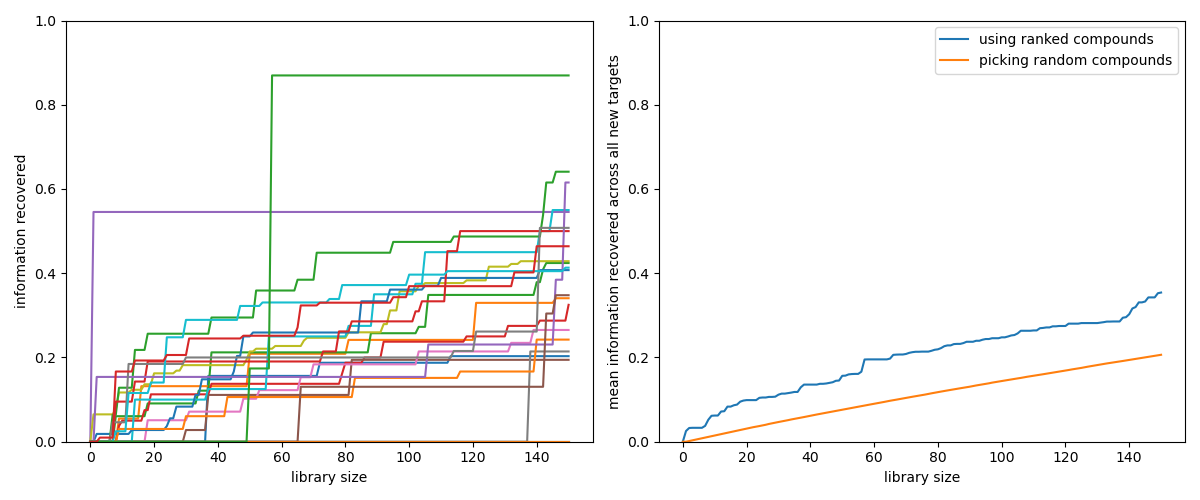
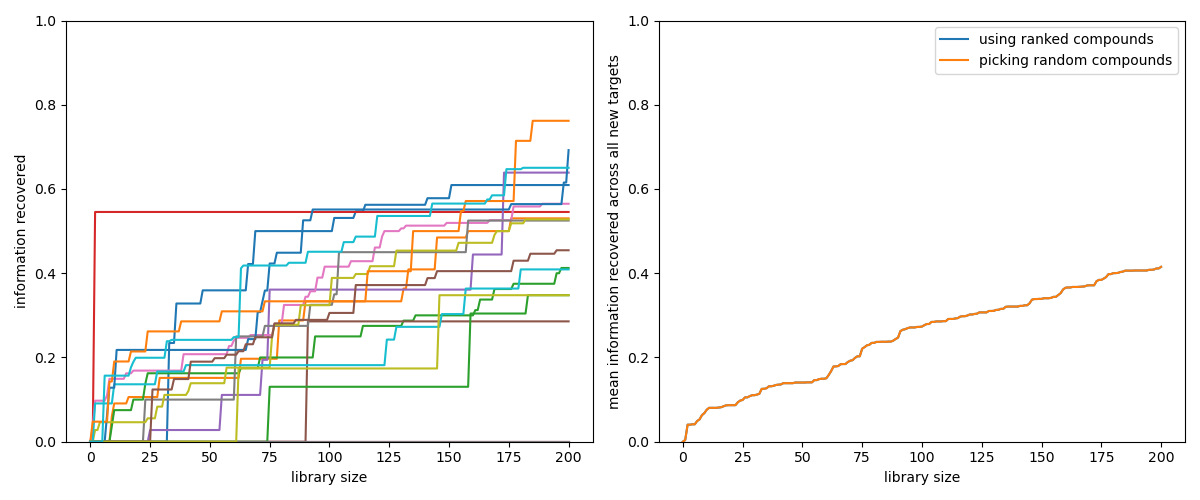
using larger set of frequently tested compounds

diff --git a/scripts/test_rankings.py b/scripts/test_rankings.py
@@ -1,6 +1,6 @@
 import os
 import json
-from rank_compounds import get_next_best_compound, get_all_smiles, rank
+from rank_compounds import get_next_best_compound, get_all_smiles, rank, get_DSiP_smiles
 import matplotlib.pyplot as plt
 import random
 from rdkit import Chem
@@ -40,14 +40,15 @@ def get_fraction(comps, smiles_bits, target, total_information):
     return target_fraction
 
 
-def ignore_targets(smiles_bits, target_tests, remove_less_than):
+def ignore_targets(smiles_bits, frequent_comps, target_screens, remove_less_than):
+
+    # returns a dictionary of IFP bits for each compound in each target that have more than a threshold amount of frequent compounds tested
 
     smol = []
     for t in smiles_bits:
-
-        if t in target_tests and target_tests[t] < remove_less_than:
+        if t in target_screens and len([i for i in target_screens[t] if i in frequent_comps]) < remove_less_than:
             smol.append(t)
-        elif t not in target_tests:
+        elif t not in target_screens:
             smol.append(t)
 
     for t in smol:
@@ -58,14 +59,20 @@ def ignore_targets(smiles_bits, target_tests, remove_less_than):
 
 def get_total_information(smiles_bits, target):
 
+    # returns number of unique IFP bits for target
+
     total_information = []
     for c in smiles_bits[target]:
         total_information += smiles_bits[target][c]
+
     total_information = len(set(total_information))
+
     return total_information
 
 
 def multiple_random_runs(all_smiles, smiles_bits, test_target, total_information, lib_size=150, num_runs=1000):
+
+    # generates results for screens on given target using random libraries
 
     random_fractions_target = [0] * lib_size
     for i in range(num_runs):
@@ -82,6 +89,8 @@ def multiple_random_runs(all_smiles, smiles_bits, test_target, total_information
 
 def plot_target_fraction(target, fraction):
 
+    # plots information recovery for each target
+
     plt.plot(range(len(fraction)), fraction, label=target)
     plt.xlabel('library size')
     plt.ylabel('information recovered')
@@ -91,6 +100,8 @@ def plot_target_fraction(target, fraction):
 
 
 def target_improvement(target_fraction, random_fractions_target):
+
+    # calculates improvement in information recovered between ranked library and random library (mean of many runs)
 
     assert len(target_fraction) == len(random_fractions_target)
 
@@ -104,6 +115,8 @@ def target_improvement(target_fraction, random_fractions_target):
 
 def mean_across_targets(fraction):
 
+    # calculates the mean information recovered across all targets for a particular library type
+
     mean_fractions = []
     fraction_lengths = [len(i) for i in fractions]
     for i in range(min(fraction_lengths)):
@@ -112,13 +125,16 @@ def mean_across_targets(fraction):
     return mean_fractions
 
 
-smiles_bits = json.load(open('data/datafiles/smiles_bits.json', 'r'))
-frequent_comps = json.load(open('data/datafiles/frequently_tested_compounds.json', 'r'))
-target_tests = json.load(open('data/datafiles/target_test_numbers.json', 'r'))
-lib_size = 150
 
-smiles_bits = ignore_targets(smiles_bits, target_tests, 250)
+smiles_bits = json.load(open('data/datafiles/smiles_bits.json', 'r')) # load in dictionary of targets with IFP bits attributed to each compound
+frequent_comps = json.load(open('data/datafiles/frequently_tested_compounds.json', 'r')) # load in list of compounds that have been tested on more than 15 of our targets
+# target_tests = json.load(open('data/datafiles/target_test_numbers.json', 'r')) # load in dictionary showing how many compounds were tested on which targets
+lib_size = 200 # library size we are using to compare ranked and random libraries
+target_screens = json.load(open('data/datafiles/target_full_screens.json', 'r')) # load in dictionary showing which compounds were tested on which targets
 
+DSiP_smiles = get_DSiP_smiles()
+smiles_bits = ignore_targets(smiles_bits, frequent_comps, target_screens, 500) # only take targets that have had more than 250 of our frequent compounds tested
+print(len(set(frequent_comps)))
 plt.figure(figsize=(12, 5))
 plt.subplot(121)
 
@@ -128,10 +144,18 @@ comps_lists = []
 improvement = []
 
 for test_target in smiles_bits:
+    # print(test_target)
+    # print(target_tests[test_target])
+    # print('frequently tested compounds', len(set([i for i in target_screens[test_target] if i in frequent_comps])))
+    # print('total DSiP compounds tested', len(set(target_screens[test_target])))
+
+    # if len(set([i for i in target_screens[test_target] if i in frequent_comps])) > 500:
+
 
     # get all results except target being tested
     smiles_bits_reduced = get_reduced_smiles_bits(smiles_bits, test_target)
-    all_smiles = [i for i in get_all_smiles(smiles_bits_reduced) if i in frequent_comps]
+    all_smiles = [i for i in get_all_smiles(smiles_bits_reduced) if Chem.MolToSmiles(Chem.MolFromSmiles(i)) in frequent_comps]
+    print('previously bound compounds', len(all_smiles))
 
     # rank compounds based on past results
     comps, x = rank(smiles_bits_reduced, all_smiles, lib_size)
@@ -146,11 +170,12 @@ for test_target in smiles_bits:
 
     # add in dummy compounds for those we have never seen bind and shuffle new (larger) library
     add_for_DSiP = len(frequent_comps) - len(all_smiles)
+
     all_smiles += ['C'] * add_for_DSiP
     random.shuffle(all_smiles)
 
     # get list of fraction of information recovered at each library size (random library)
-    random_fractions_target = multiple_random_runs(all_smiles, smiles_bits, test_target, total_information, num_runs=1000)
+    random_fractions_target = multiple_random_runs(all_smiles, smiles_bits, test_target, total_information, lib_size=lib_size, num_runs=1000)
     random_fractions.append(random_fractions_target)
 
     # print and save improvement in information recovered from random and ranked sub-libaries
@@ -163,6 +188,7 @@ for test_target in smiles_bits:
 
 mean_fractions = mean_across_targets(fractions)
 mean_random_fractions = mean_across_targets(random_fractions)
+
 
 plt.subplot(122)
 plt.plot(range(len(mean_fractions)), mean_fractions, label='using ranked compounds')

diff --git a/scripts/structurally_diverse_library.py b/scripts/structurally_diverse_library.py
@@ -4,7 +4,7 @@ from rdkit.Chem import DataStructs, SaltRemover, rdMolDescriptors, MACCSkeys
 from rdkit import SimDivFilters
 import numpy as np
 import os
-from rank_compounds import get_all_smiles
+from rank_compounds import get_all_smiles, get_DSiP_smiles
 import json
 
 
@@ -17,24 +17,9 @@ def dmat_sim(fps,ntopick):
     return ids
 
 
-def get_DSiP_smiles():
 
-    # using the sdf files provided by Enamine, the molecules are cleaned of salts and converted into SMILES strings
-
-    DSiP = []
-
-    for filename in os.listdir('data/DSiP'):
-        DSiP += list(Chem.SDMolSupplier(f'data/DSiP/{filename}'))
-
-    remover = SaltRemover.SaltRemover()
-    DSiP = [remover.StripMol(mol) for mol in DSiP]
-    DSiP_smiles = [Chem.MolToSmiles(i) for i in DSiP]
-    DSiP_smiles = list(set(DSiP_smiles))
-
-    return DSiP_smiles
-
-# smiles_bits = json.load(open('data/datafiles/smiles_bits.json', 'r'))
-# all_smiles = get_all_smiles(smiles_bits)
+smiles_bits = json.load(open('data/datafiles/smiles_bits.json', 'r'))
+all_smiles = get_all_smiles(smiles_bits)
 DSiP_smiles = json.load(open('data/datafiles/frequently_tested_compounds.json', 'r'))
 ms = [Chem.MolFromSmiles(i) for i in DSiP_smiles]
 # fps = [rdMolDescriptors.GetMorganFingerprintAsBitVect(m,2) for m in ms]
